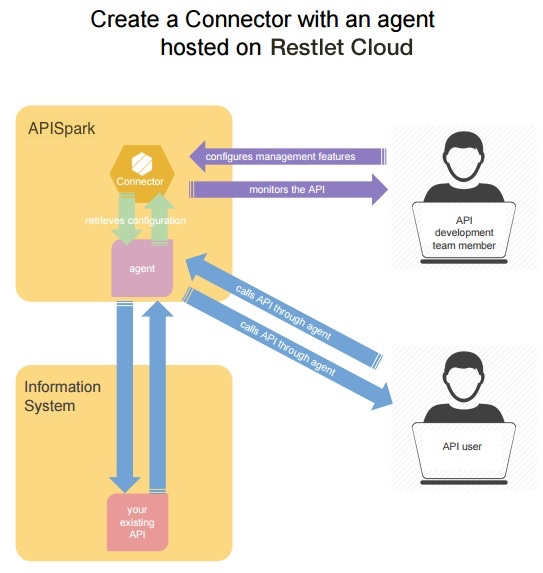
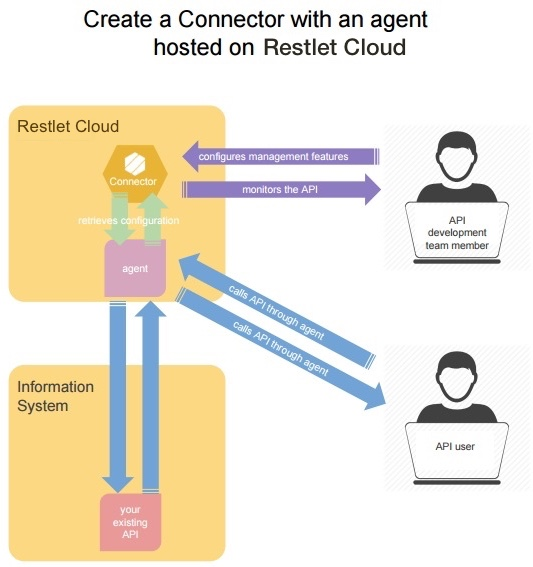
removed references to APISpark

diff --git a/modules/com.restlet/tech-doc/cloud/faq/faq.md b/modules/com.restlet/tech-doc/cloud/faq/faq.md
@@ -38,7 +38,7 @@ Jump to the [Check your messages](/documentation/cloud/guide/create/test#check-m
 # <a class="anchor" name="02"></a>2. What is the difference between deploying & publishing my API?
 
 ## Deploying your API
-When you deploy a cell, APISpark generates source code, compiles and deploys it in the cloud so that it will be executed in the APISpark runtime environment. As long as you have not deployed your data stores and web APIs, they are not available to store data or receive HTTP requests.
+When you deploy a cell, Restlet Cloud generates source code, compiles and deploys it in the cloud so that it will be executed in the Restlet Cloud runtime environment. As long as you have not deployed your data stores and web APIs, they are not available to store data or receive HTTP requests.
 
 Jump to the [Cell deployment](/documentation/cloud/guide/explore/cell-deployment "Cell deployment") section of our online documentation for further information.
 
@@ -168,7 +168,7 @@ Paste them in POSTMAN to access your API.
 
 ## POST request
 
-Paste your API Endpoint URI followed by your resource name in POSTMAN e.g. https://myapi.apispark.net/v1/contacts.  
+Paste your API Endpoint URI followed by your resource name in POSTMAN e.g. https://myapi.restlet.net/v1/contacts.  
 Select the **POST** request from the drop-down menu.
 Make sure **raw** format and **JSON** language are selected.  
 Set **Content Type** Header to **application/json**.  
@@ -178,7 +178,7 @@ Enter your new entry in the input area underneath and click **Send**. The new en
 
 ## PUT request
 
-Paste your API Endpoint URI followed by your resource name and the entry you want to modify in POSTMAN e.g. https://myapi.apispark.net/v1/contacts/{contactid}.  
+Paste your API Endpoint URI followed by your resource name and the entry you want to modify in POSTMAN e.g. https://myapi.restlet.net/v1/contacts/{contactid}.  
 Select the **PUT** request from the drop-down menu.  
 Make sure **raw** format and **JSON** language are selected.  
 Set **Content Type** Header to **application/json**.  
@@ -333,7 +333,7 @@ You can now use your Entity Store.
 
 # <a class="anchor" name="14"></a>14. My csv file import failed
 
-APISpark allows you to import data stored in a csv file in your Entity Store from the data browser. This import will automatically fail after 25 errors. You will get an error message that invites you to navigate to the **Traces** of the **Messages** tab.
+Restlet Cloud allows you to import data stored in a csv file in your Entity Store from the data browser. This import will automatically fail after 25 errors. You will get an error message that invites you to navigate to the **Traces** of the **Messages** tab.
 
 ![Error message](images/error-message.jpg "Error message")
 
@@ -355,7 +355,7 @@ To have more information on your account, navigate to your account page: click o
 
 In the **My account** tab, you will find the email and the provider with which you created the current account.
 
-In this example, you created an account directly with APISpark and without any provider:
+In this example, you created an account directly with Restlet Cloud and without any provider:
 
 ![My account](images/my-auth0-account.jpg "My account")
 

diff --git a/modules/com.restlet/tech-doc/cloud/guide/01_get-started/02_quickstart-wizard.md b/modules/com.restlet/tech-doc/cloud/guide/01_get-started/02_quickstart-wizard.md
@@ -1,5 +1,5 @@
 
-The Restlet Cloud Quickstart wizard launches automatically if your **Dashboard** is empty. To help you start from scratch, the Quickstart wizard will guide you through the creation of your first cells (Entity Store, API, and Connector). So don't worry about writer's block, APISpark will guide you through your first steps.
+The Restlet Cloud Quickstart wizard launches automatically if your **Dashboard** is empty. To help you start from scratch, the Quickstart wizard will guide you through the creation of your first cells (Entity Store, API, and Connector). So don't worry about writer's block, Restlet Cloud will guide you through your first steps.
 
 You can also launch the Quickstart wizard at any time from the **Dashboard** by clicking the Quickstart wizard icon in the upper right corner of your screen.
 

diff --git a/modules/com.restlet/tech-doc/cloud/guide/01_get-started/03_discover-dashboard.md b/modules/com.restlet/tech-doc/cloud/guide/01_get-started/03_discover-dashboard.md
@@ -3,3 +3,11 @@ The Dashboard is Restlet Cloud's primary control center. From the Dashboard, you
 The diagram below illustrates the main features accessible from the Dashboard.
 
 ![Dashboard](images/dashboard.png "Dashboard")
+
+1. Dashboard shortcut
+2. Combined analytics for all cells linked to your account
+3. Account management
+4. Cell creation buttons
+5. Dashboard search functions
+6. Cell action button
+7. Cell version and status indicator

diff --git a/modules/com.restlet/tech-doc/cloud/guide/01_get-started/04_interactive-assistants.md b/modules/com.restlet/tech-doc/cloud/guide/01_get-started/04_interactive-assistants.md
@@ -5,7 +5,7 @@ The interactive assistants are designed to accompany you while you discover Rest
 
 Click on the tutorial title you want to start.
 
-![interactive tutorials list](images/iss-list.jpg "interactive tutorials list")
+![interactive tutorials list](images/iss-list.png "interactive tutorials list")
 
 Check each step as you complete the tutorial. This way you will be able to track your progress.
 

diff --git a/modules/com.restlet/tech-doc/cloud/guide/03_create/02_edit/02_endpoints.md b/modules/com.restlet/tech-doc/cloud/guide/03_create/02_edit/02_endpoints.md
@@ -60,7 +60,7 @@ Here is an example configuration to setup with your domain registrar, for myapi.
 **TYPE** - Type of Resource Record e.g. *CNAME*  
 **VALUE** - Value of the Canonical Name or CNAME e.g. *restlet.net.*
 
-![DNS Aliasing](images/alias-binding.jpg "DNS Aliasing")
+![DNS Aliasing](images/alias-binding.png "DNS Aliasing")
 
 ### DNS delegation
 
